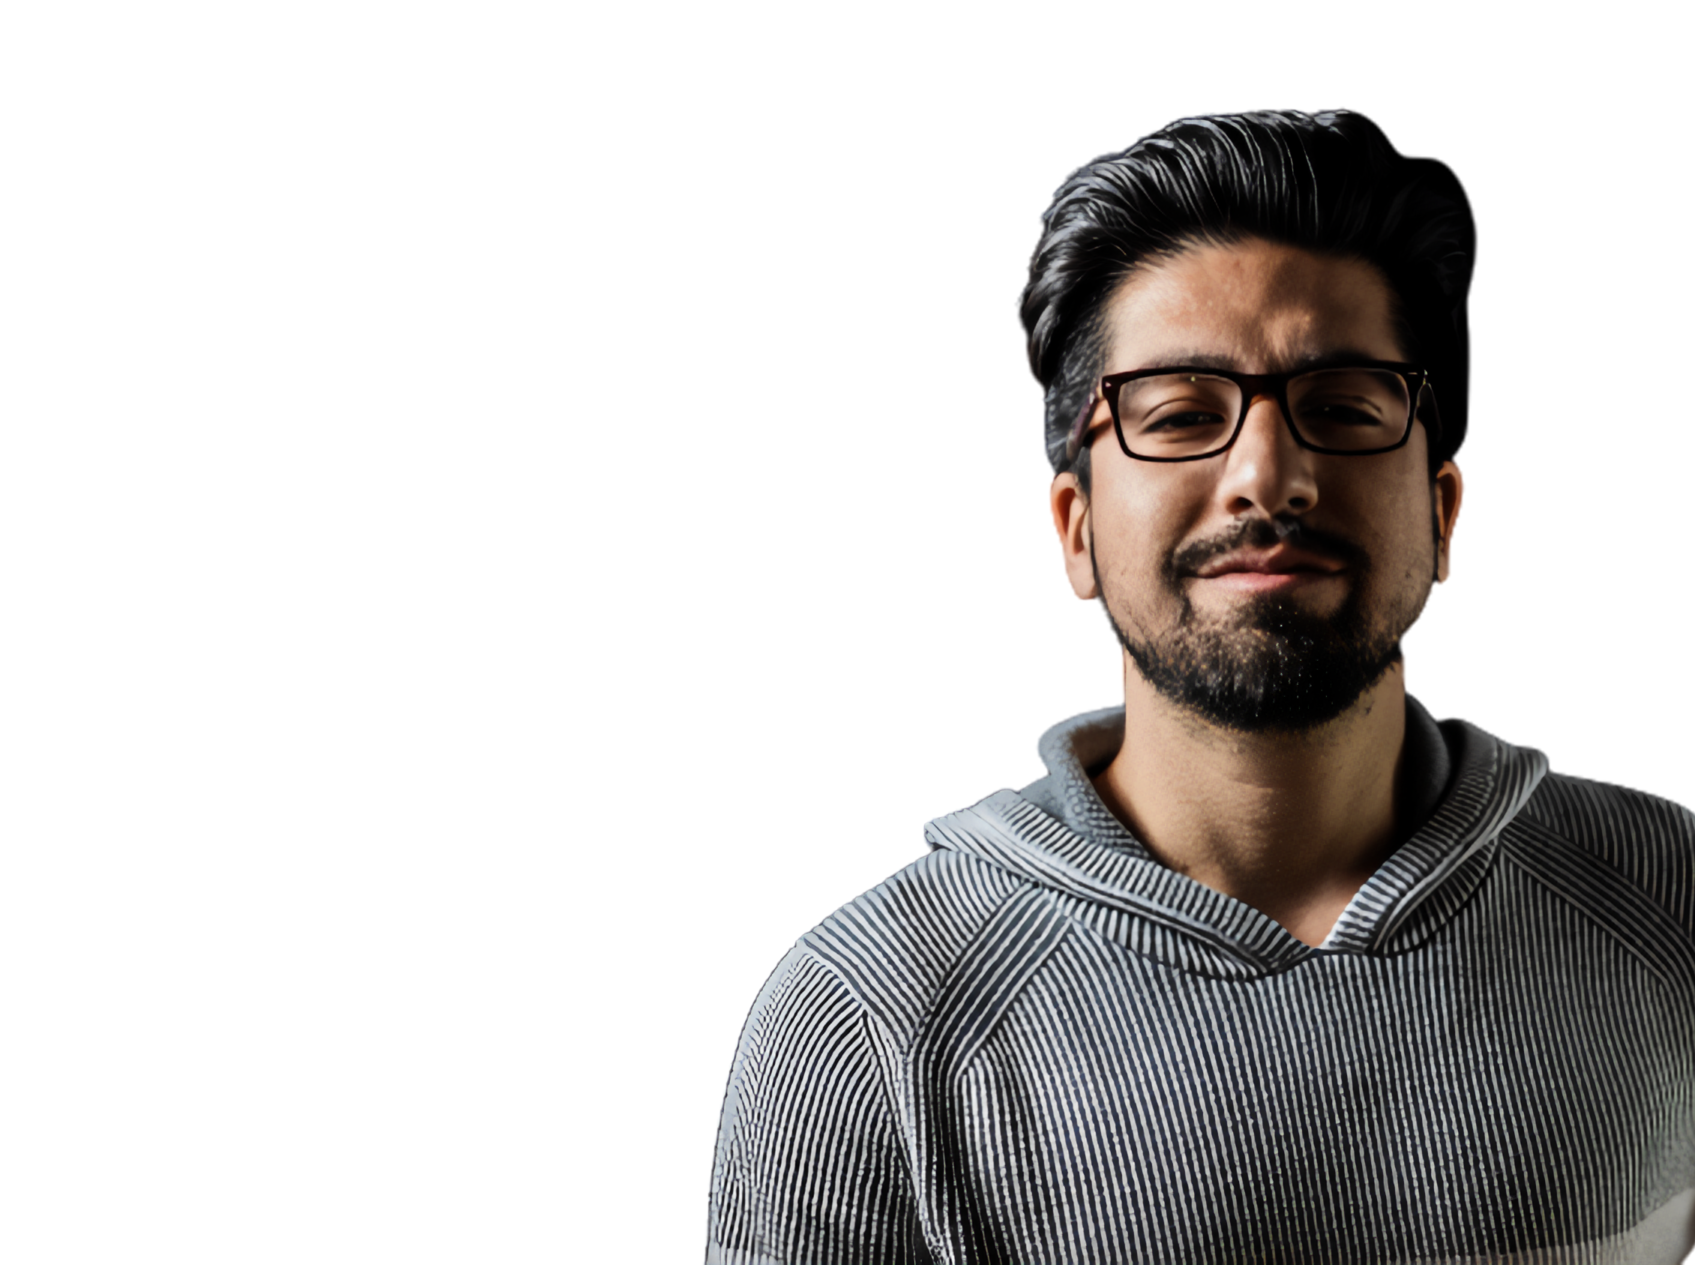
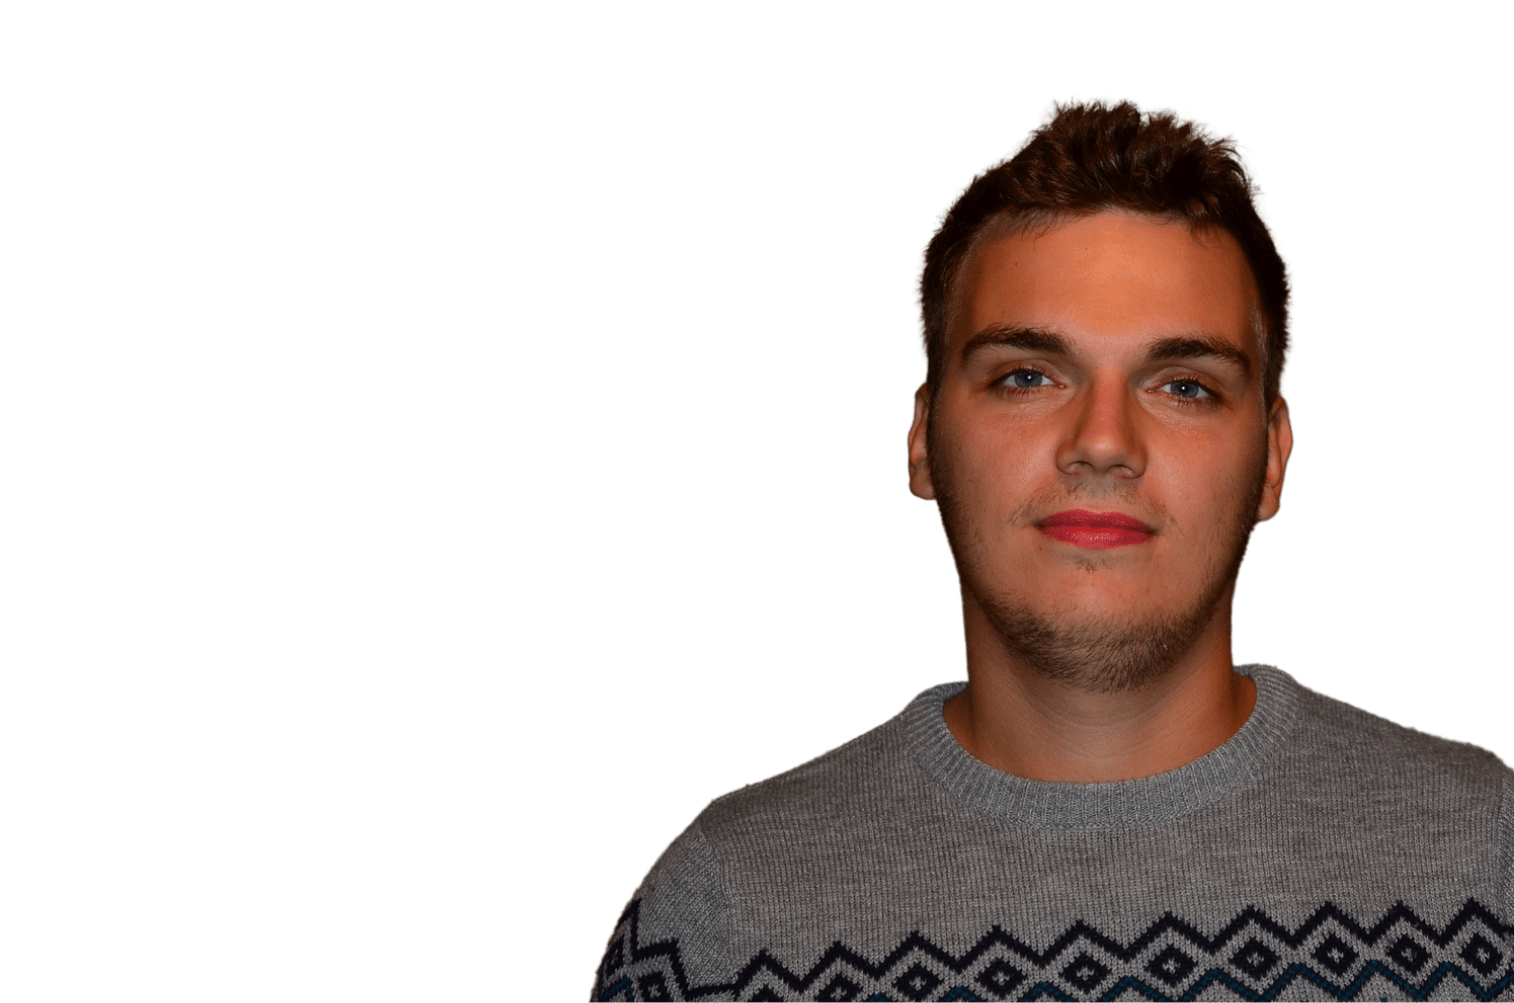
Added the right images for Hero and About

Changed region(s): [[0.3725, 0.0618, 1.0, 1.0]]

diff --git a/src/Hero.scss b/src/Hero.scss
@@ -6,7 +6,7 @@
   background: linear-gradient(rgba(0, 0, 0, 0.35), rgba(0, 0, 0, 0.35)),
     url("./assets/Images/heroImg.png");
   background-repeat: no-repeat;
-  background-position: 100% 15%;
+  background-position: 100% 100%;
 
   .navbar {
     display: flex;
